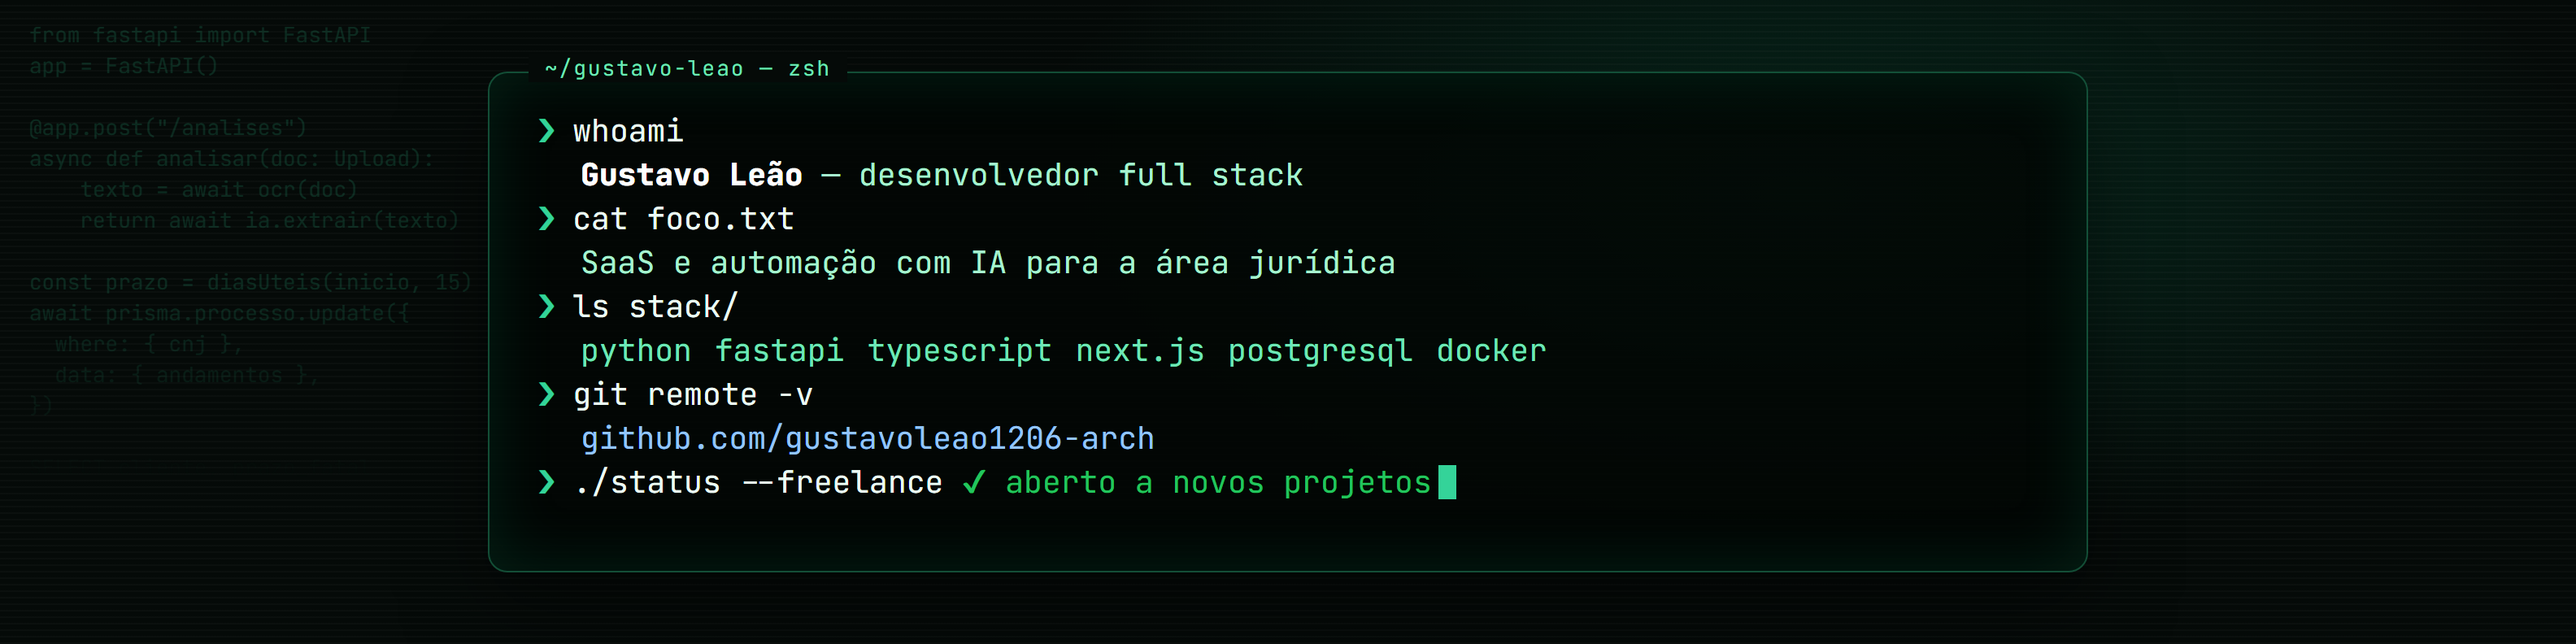
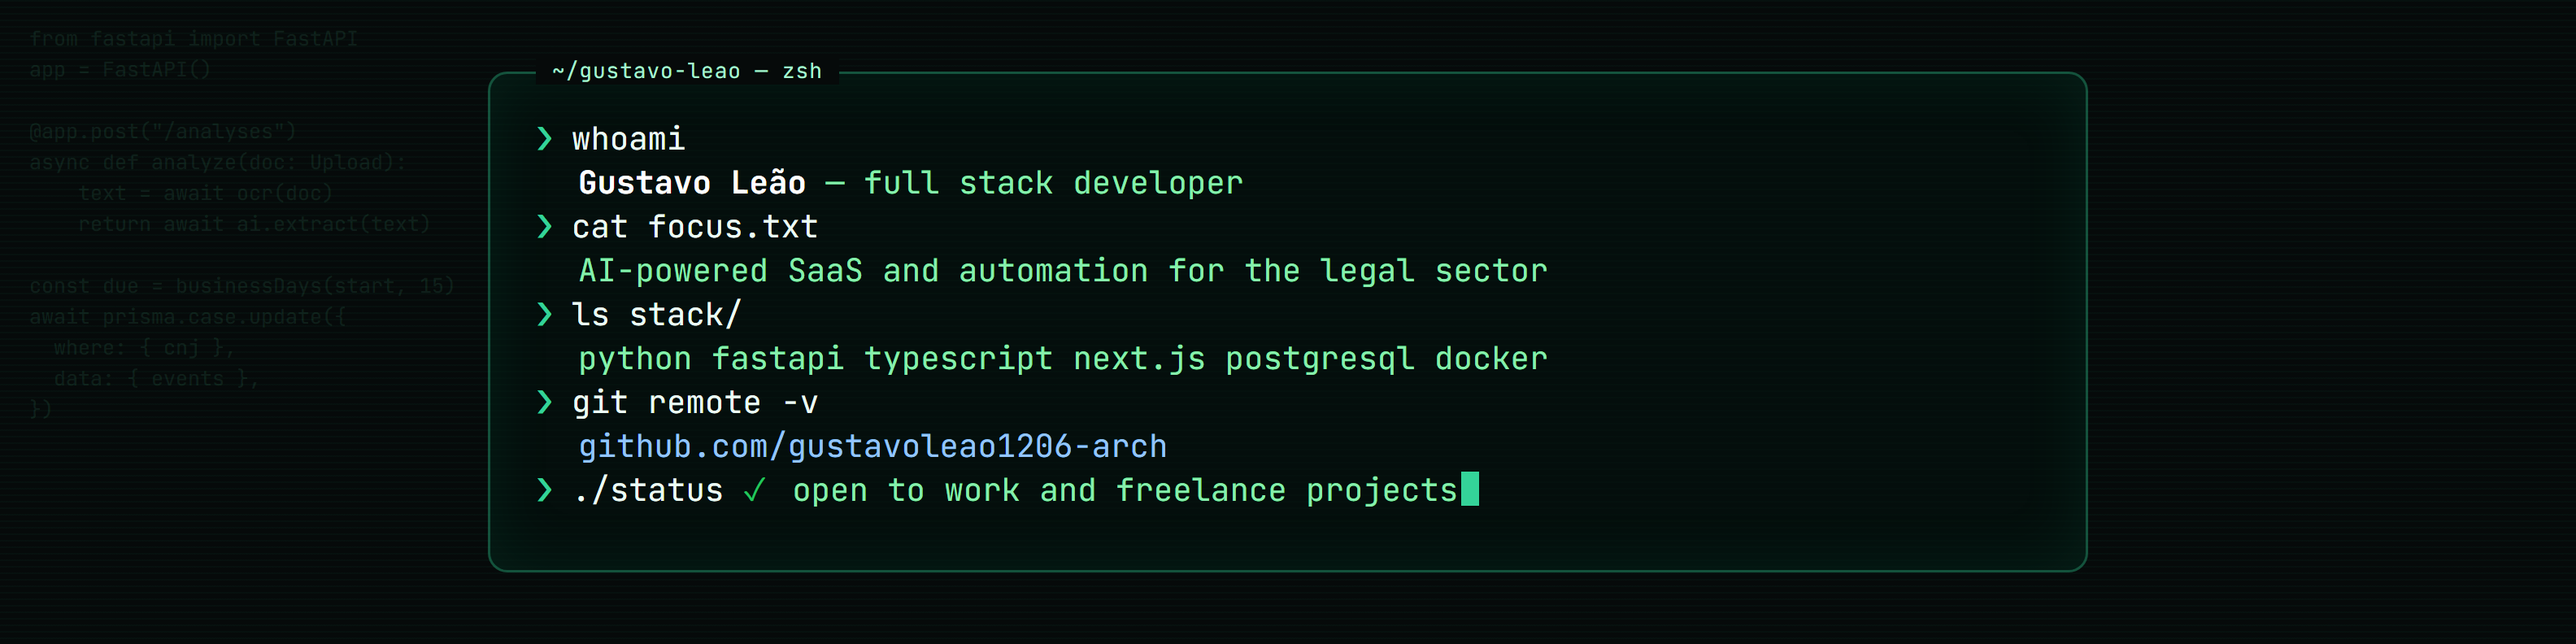
Profile README in English, with the open-source projects

diff --git a/README.md b/README.md
@@ -1,11 +1,11 @@
 <p align="center">
-  <img src="./assets/banner.png" alt="Gustavo Leão — desenvolvedor full stack" width="100%">
+  <img src="./assets/banner.png" alt="Gustavo Leão — full stack developer" width="100%">
 </p>
 
-<h2 align="center">Gustavo Leão · Desenvolvedor Full Stack</h2>
+<h2 align="center">Gustavo Leão · Full Stack Developer</h2>
 
 <p align="center">
-  SaaS e automação com IA para a área jurídica
+  AI-powered SaaS and automation for the legal sector
 </p>
 
 <p align="center">
@@ -16,17 +16,15 @@
 
 ---
 
-## Sobre mim
+## About me
 
-Desenvolvo sistemas web e SaaS com inteligência artificial para escritórios e departamentos jurídicos que precisam sair das planilhas, automatizar tarefas repetitivas e ter os dados num só lugar.
+I build web systems and SaaS products for law firms and legal departments that need to get off spreadsheets, automate repetitive work and keep their data in one place. Most of what I ship runs in production for real users, so I care as much about security, tests and maintainability as about features.
 
-- **Hoje:** Leão Amorim Tecnologia, criando produtos SaaS jurídicos, e TV Gazeta de Alagoas, desenvolvendo e automatizando sistemas internos de RH (TOTVS) e Jurídico
-- **Formação:** cursando na UNINTER
-- **Disponível** para projetos freelance, por etapas e com escopo fechado
+- **Now:** building legal SaaS products at Leão Amorim Tecnologia, and developing and automating internal HR (TOTVS) and legal systems at TV Gazeta de Alagoas
+- **Education:** currently studying at UNINTER
+- **Open to work:** full-time roles and freelance projects
 
-> **EN:** Full stack developer building AI-powered SaaS and automation for the legal sector. Python · TypeScript · Next.js · FastAPI · PostgreSQL. Open to freelance projects.
-
-## Stack
+## Tech stack
 
 <p>
   <img src="https://img.shields.io/badge/Python-3776AB?style=flat-square&logo=python&logoColor=white" alt="Python">
@@ -40,40 +38,59 @@ Desenvolvo sistemas web e SaaS com inteligência artificial para escritórios e 
   <img src="https://img.shields.io/badge/Prisma-2D3748?style=flat-square&logo=prisma&logoColor=white" alt="Prisma">
   <img src="https://img.shields.io/badge/Redis-DC382D?style=flat-square&logo=redis&logoColor=white" alt="Redis">
   <img src="https://img.shields.io/badge/Docker-2496ED?style=flat-square&logo=docker&logoColor=white" alt="Docker">
+  <img src="https://img.shields.io/badge/Flutter-02569B?style=flat-square&logo=flutter&logoColor=white" alt="Flutter">
+  <img src="https://img.shields.io/badge/C%23-512BD4?style=flat-square&logo=dotnet&logoColor=white" alt="C#">
+  <img src="https://img.shields.io/badge/Unity-000000?style=flat-square&logo=unity&logoColor=white" alt="Unity">
   <img src="https://img.shields.io/badge/OpenAI-412991?style=flat-square&logo=openai&logoColor=white" alt="OpenAI">
   <img src="https://img.shields.io/badge/Gemini-8E75B2?style=flat-square&logo=googlegemini&logoColor=white" alt="Gemini">
 </p>
 
-## Projetos em destaque
+## Featured projects
 
-### Prescrição Pro · SaaS jurídico com IA
-<a href="https://leaoamorimtecnologia.com.br/prescricao-pro"><img src="./assets/prescricao-pro.png" alt="Prescrição Pro" width="100%"></a>
+All of them are open source. The products serve Brazilian users, so their interfaces and code comments are in Portuguese; every repository has an English README.
 
-Analisa execuções fiscais e aponta prescrição e decadência tributária com fundamentação: IA no servidor, OCR de PDFs digitalizados, relatório com memória de cálculo e assinatura por créditos via Asaas.
-**Stack:** TypeScript · Next.js · PostgreSQL (Prisma) · Docker · [ver o produto](https://leaoamorimtecnologia.com.br/prescricao-pro)
+### [LeoJuris](https://github.com/gustavoleao1206-arch/leojuris) · legal practice management
+<a href="https://github.com/gustavoleao1206-arch/leojuris"><img src="./assets/leojuris.png" alt="LeoJuris" width="100%"></a>
 
-### La Miner · inteligência de precatórios federais
-<a href="https://laminer.com.br"><img src="./assets/la-miner.png" alt="La Miner" width="100%"></a>
+Clients, cases, business-day deadlines, calendar, documents and fee splitting for a law firm, with court-gazette monitoring (DJEN) and case-status updates from DataJud/CNJ. AI reads PDFs and images, a person approves, and the system updates everything. Running in production at a Brazilian law firm.
+**Highlights:** two-layer role-based access control, TOTP 2FA, audit trail, CSP without `unsafe-inline`, rate limiting, installable PWA, 967 automated tests.
+**Stack:** Python · FastAPI · SQLAlchemy · PostgreSQL · vanilla JS
 
-Transforma dados públicos dos tribunais em oportunidades de negócio: importação de planilhas dos TRFs com reimportação incremental, enriquecimento via API externa com filas e rotinas agendadas, CRM por processo e painéis de indicadores.
-**Stack:** TypeScript · NestJS · Next.js · PostgreSQL (Prisma) · Redis/BullMQ · [ver o produto](https://laminer.com.br)
+### [Prescrição Pro](https://github.com/gustavoleao1206-arch/prescricao-pro-saas) · legal SaaS with applied AI
+<a href="https://github.com/gustavoleao1206-arch/prescricao-pro-saas"><img src="./assets/prescricao-pro.png" alt="Prescrição Pro" width="100%"></a>
 
-### CRM Jurídico com IA · Python/FastAPI
-<img src="./assets/crm-juridico.png" alt="CRM Jurídico com IA" width="100%">
+Analyzes tax enforcement lawsuits from the case PDF and flags statute-of-limitations issues, with deterministic date checks, an AI-written report showing every calculation, and a draft petition. Credit-based subscription with payments through Asaas.
+**Highlights:** idempotent credit ledger with refunds, field-level AES-256-GCM encryption, data-retention jobs, nonce-based CSP, 985 automated tests.
+**Stack:** TypeScript · Next.js · Prisma · PostgreSQL · Docker · [live product](https://prescricaopro.com.br)
 
-Centraliza clientes, processos, prazos, agenda e documentos de um escritório de advocacia. A IA extrai dados de PDFs e imagens, o usuário aprova e o sistema atualiza tudo. Integrações com DataJud/CNJ, DJEN e Clicksign.
-**Stack:** Python · FastAPI · SQLAlchemy · PostgreSQL · Docker
+### [LA Miner](https://github.com/gustavoleao1206-arch/la-miner) · court-data intelligence
+<a href="https://github.com/gustavoleao1206-arch/la-miner"><img src="./assets/la-miner.png" alt="LA Miner" width="100%"></a>
 
-<sub>As telas mostradas usam dados fictícios.</sub>
+B2B prospecting SaaS that turns public Brazilian court data into qualified leads: incremental spreadsheet imports from the federal courts, contact enrichment through an external API with queues and scheduled jobs, a per-case CRM and KPI dashboards.
+**Highlights:** multi-tenant API, refresh-token rotation with reuse detection, BullMQ workers, a CI gate that blocks deploys on vulnerable dependencies, 1,166 automated tests.
+**Stack:** TypeScript · NestJS · Next.js · Prisma · PostgreSQL · Redis/BullMQ · [live product](https://laminer.com.br)
 
-## O que eu entrego
+### [Kadosh Ops Platform](https://github.com/gustavoleao1206-arch/kadosh-ops-platform) · operations for a car-detailing business
 
-- Sistema sob medida: painel web, login por perfil, cadastros e financeiro
-- IA aplicada: leitura de documentos, extração de dados e assistentes sobre seus dados
-- Automação: rotinas agendadas, importação de planilhas e geração de documentos
-- Integrações com APIs: pagamento, assinatura digital, tribunais e e-mail
-- Testes automatizados, publicação online e documentação de uso
+One API, one database and one login serving a web back office and an Android app: clients and vehicles, service catalog with negotiated prices, scheduling and work orders, vehicle intake in a single transaction, and payments that can be reversed but never edited.
+**Highlights:** login throttling by IP, by origin and by account, so a stranger cannot lock the owner out; 534 backend tests at 98% coverage, plus web and mobile suites.
+**Stack:** Python · FastAPI · PostgreSQL · React · Flutter
 
-## Contato
+### [Aethelgard](https://github.com/gustavoleao1206-arch/aethelgard) · Unity multiplayer game (source code)
 
-Fale comigo pelo [LinkedIn](https://www.linkedin.com/in/gustavo-leao-dev) ou pelo [Workana](https://www.workana.com/freelancer/e374923f8c4b54cab1f5f7d6e4b1725b).
+A co-op action RPG for 1–4 players built with Unity 6 and Netcode for GameObjects, with a server-authoritative game loop: every gameplay request is validated on the server against the sender's own connection. The repository holds the code only; the licensed art is not included.
+**Stack:** C# · Unity 6 · Netcode for GameObjects · URP
+
+<sub>Screens show fictitious data.</sub>
+
+## What I deliver
+
+- Custom systems: web dashboard, role-based login, records and finance
+- Applied AI: document reading, data extraction and assistants over your own data
+- Automation: scheduled jobs, spreadsheet imports and document generation
+- API integrations: payments, e-signature, courts and email
+- Automated tests, deployment and user documentation
+
+## Contact
+
+Reach me on [LinkedIn](https://www.linkedin.com/in/gustavo-leao-dev) or [Workana](https://www.workana.com/freelancer/e374923f8c4b54cab1f5f7d6e4b1725b).
